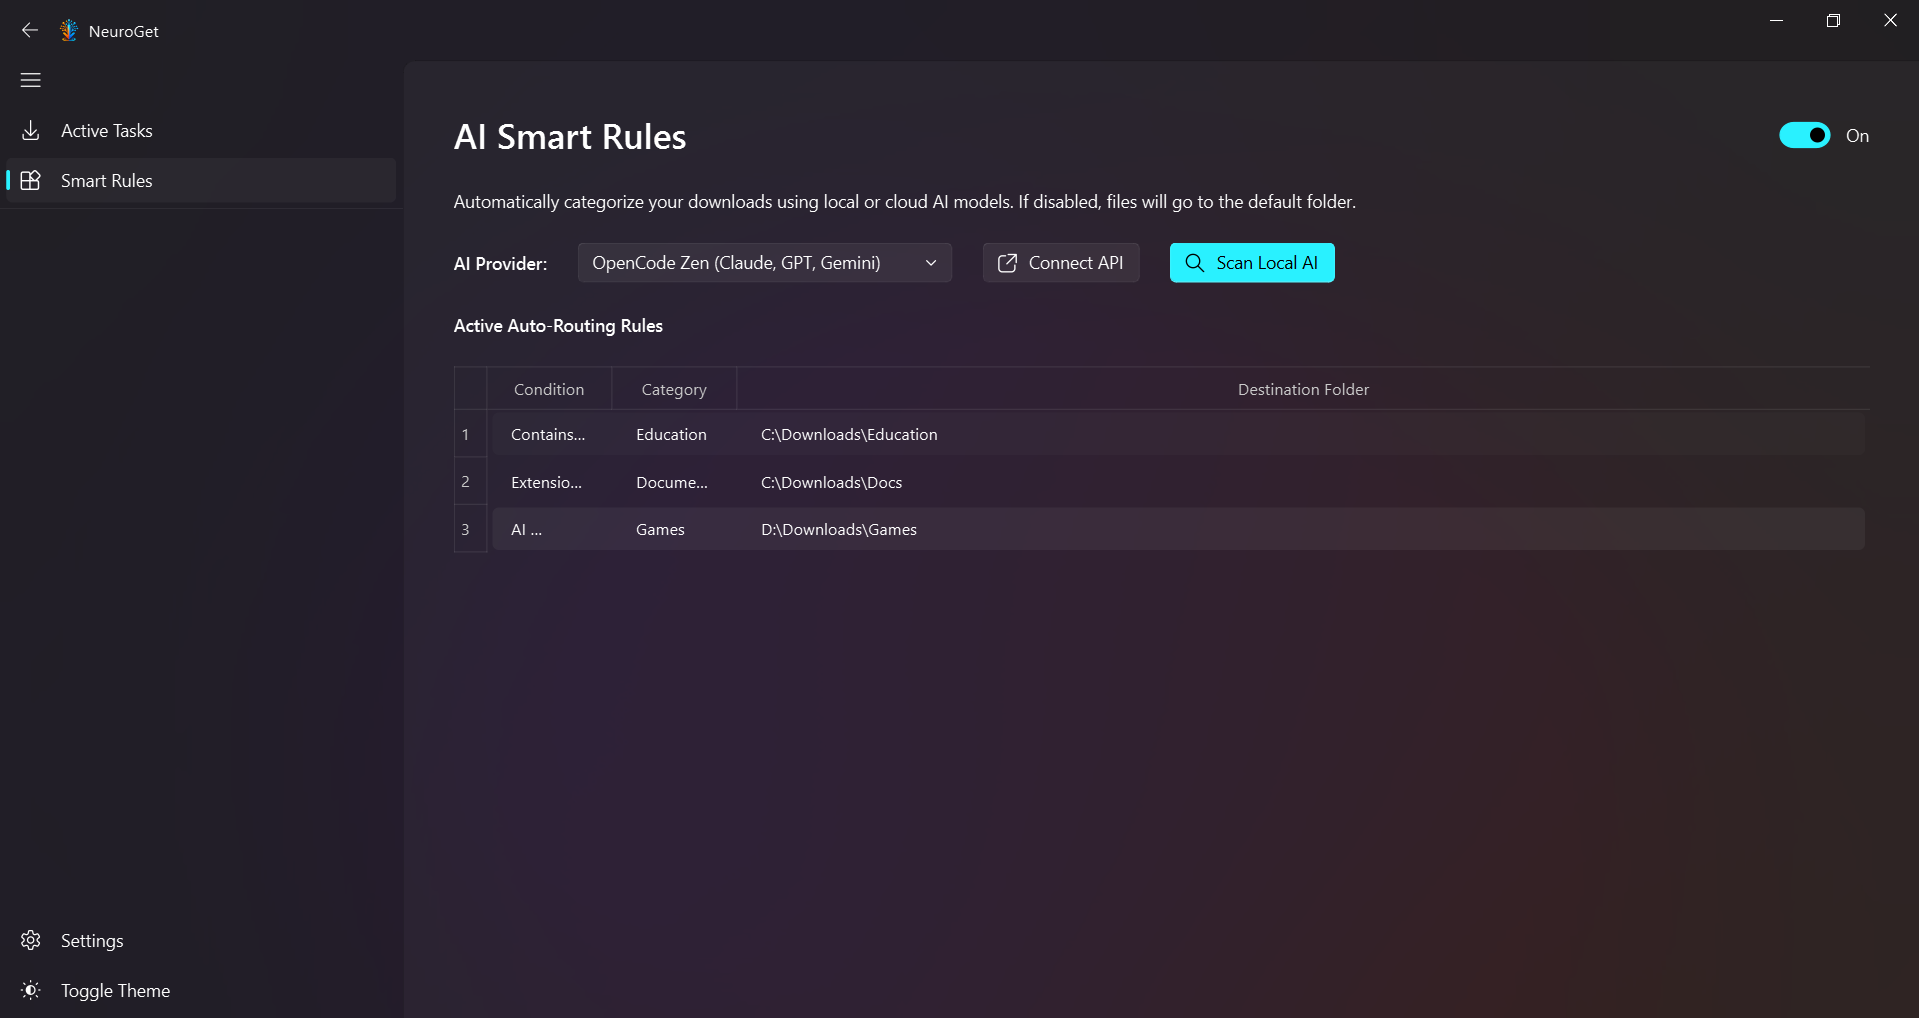
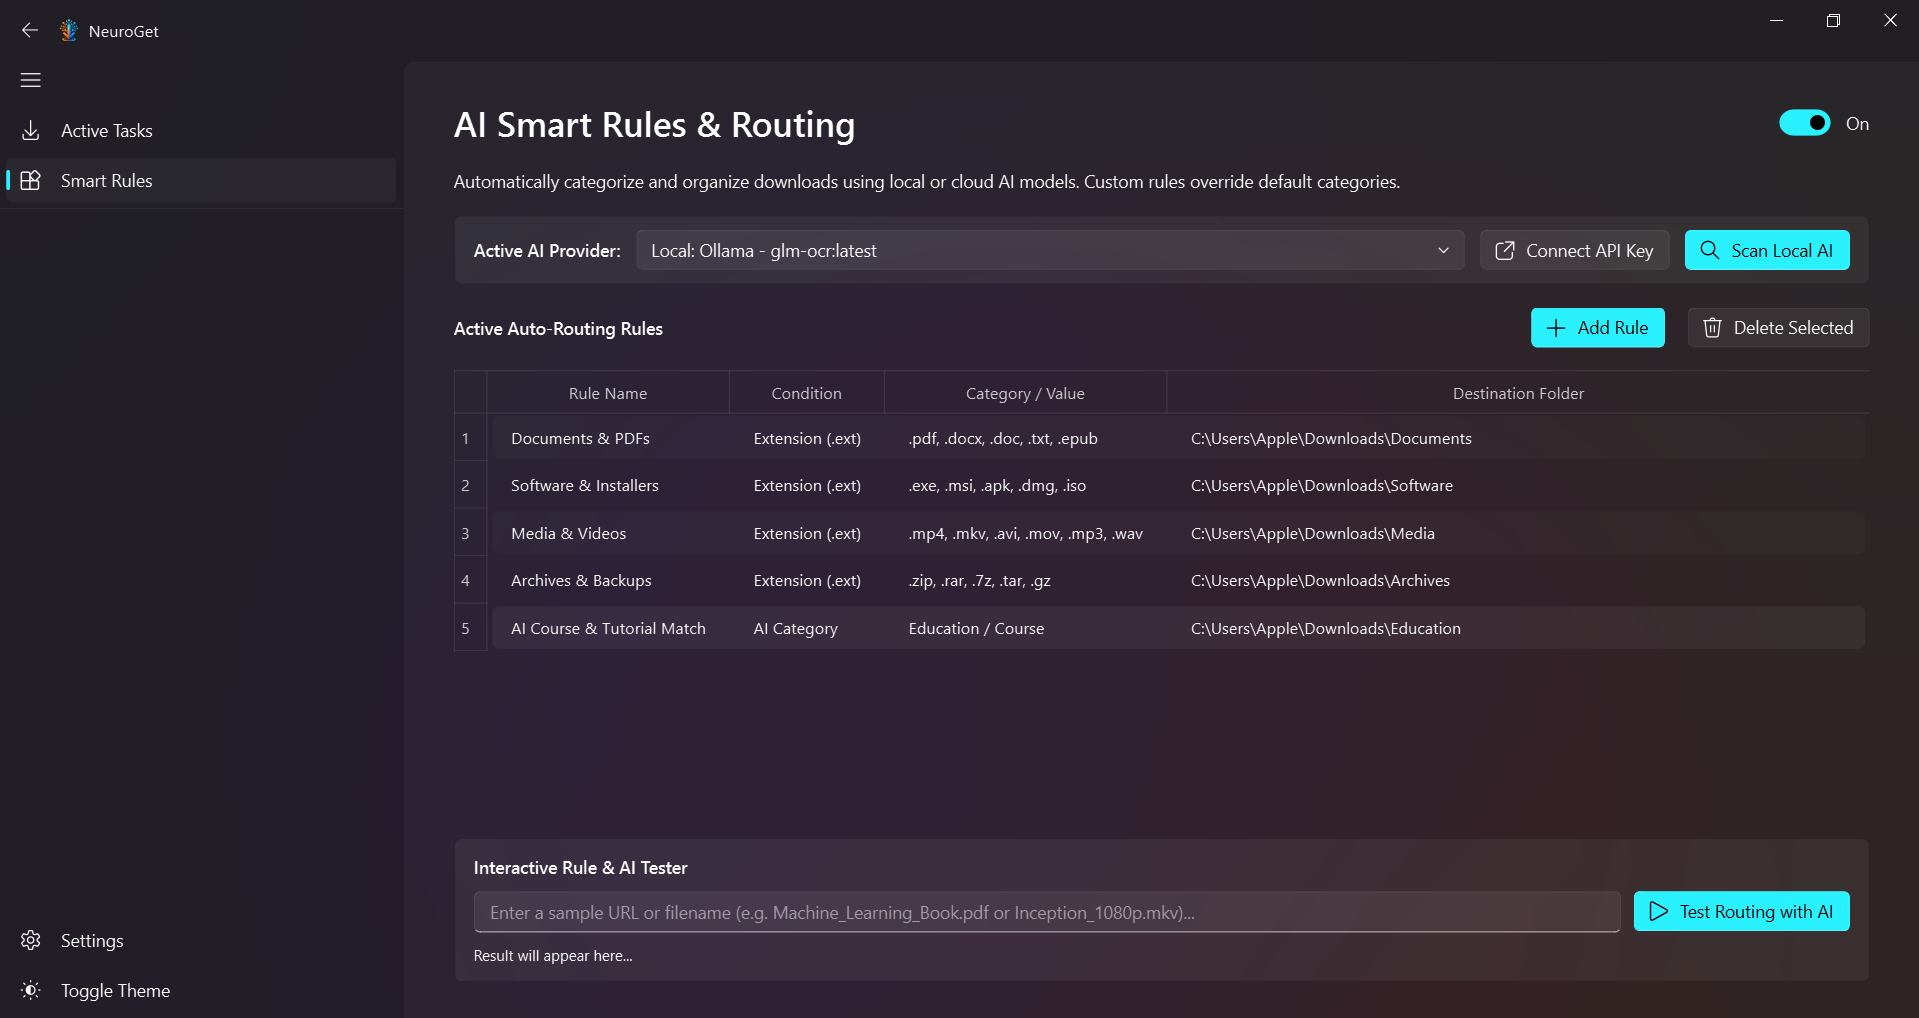
docs: revamp README with 2x2 screenshot grid, Mermaid architecture flowchart, and comprehensive feature guide

diff --git a/README.md b/README.md
@@ -1,133 +1,233 @@
 <p align="center">
-  <img src="assets/logo.jpg" width="180" style="border-radius: 30px; box-shadow: 0 10px 30px rgba(0,0,0,0.5);">
-  <h1 align="center">NeuroGet 🚀</h1>
+  <img src="assets/logo_transparent.png" width="140" alt="NeuroGet Logo">
+  <h1 align="center">NeuroGet</h1>
   <p align="center">
-    <strong>The Next-Generation AI-Powered Download Manager</strong>
+    <strong>The State-of-the-Art AI-Powered Download Manager for Windows 11</strong>
     <br>
-    <em>Intelligent Routing. Fluent Design. Uncompromised Speed.</em>
+    <em>Intelligent Multi-Threaded Fetching • Semantic AI Routing • Document Mini-RAG • Threat Detection</em>
   </p>
   <p align="center">
-    <img src="https://img.shields.io/badge/Python-3.12-blue?style=for-the-badge&logo=python&logoColor=white" alt="Python">
-    <img src="https://img.shields.io/badge/PyQt5-Fluent-orange?style=for-the-badge&logo=qt&logoColor=white" alt="PyQt5">
-    <img src="https://img.shields.io/badge/AI-Ollama%20%7C%20OpenAI-000000?style=for-the-badge&logo=openai&logoColor=white" alt="AI">
-    <img src="https://img.shields.io/badge/Windows-11_Ready-0078D6?style=for-the-badge&logo=windows&logoColor=white" alt="Windows 11">
+    <a href="https://github.com/mohammadrezamirtaleb/NeuroGet/releases/latest"><img src="https://img.shields.io/github/v/release/mohammadrezamirtaleb/NeuroGet?style=for-the-badge&color=0078D6&logo=github" alt="Latest Release"></a>
+    <img src="https://img.shields.io/badge/Python-3.12-3776AB?style=for-the-badge&logo=python&logoColor=white" alt="Python 3.12">
+    <img src="https://img.shields.io/badge/PyQt5-Fluent_Design-FF6F00?style=for-the-badge&logo=qt&logoColor=white" alt="PyQt5 Fluent">
+    <img src="https://img.shields.io/badge/AI_Engines-Ollama%20%7C%20OpenAI%20%7C%20Gemini-10A37F?style=for-the-badge&logo=openai&logoColor=white" alt="AI Engines">
+    <img src="https://img.shields.io/badge/Platform-Windows_11%20%7C%2010-0078D4?style=for-the-badge&logo=windows&logoColor=white" alt="Windows 11">
+    <img src="https://img.shields.io/badge/License-MIT-green?style=for-the-badge" alt="License">
   </p>
 </p>
+
+---
+
+## 📸 Interface Preview (2x2 Matrix)
+
+<table align="center" width="100%">
+  <tr>
+    <td width="50%" align="center">
+      <strong>Dark Mode — Active Downloads & Concurrency</strong><br><br>
+      <img src="assets/banner.png" width="100%" alt="Dark Mode Active Downloads" style="border-radius: 12px; box-shadow: 0 8px 24px rgba(0,0,0,0.35);">
+    </td>
+    <td width="50%" align="center">
+      <strong>Dark Mode — Fluent Navigation & Controls</strong><br><br>
+      <img src="assets/banner__menu.png" width="100%" alt="Dark Mode Menu" style="border-radius: 12px; box-shadow: 0 8px 24px rgba(0,0,0,0.35);">
+    </td>
+  </tr>
+  <tr>
+    <td width="50%" align="center">
+      <strong>Light Mode — Active Downloads & Real-Time Stats</strong><br><br>
+      <img src="assets/banner_light.png" width="100%" alt="Light Mode Active Downloads" style="border-radius: 12px; box-shadow: 0 8px 24px rgba(0,0,0,0.15);">
+    </td>
+    <td width="50%" align="center">
+      <strong>Light Mode — Fluent Navigation & Settings</strong><br><br>
+      <img src="assets/banner_light_menu.png" width="100%" alt="Light Mode Menu" style="border-radius: 12px; box-shadow: 0 8px 24px rgba(0,0,0,0.15);">
+    </td>
+  </tr>
+</table>
 
 ---
 
 ## 🌌 Overview
 
-**NeuroGet** is not just another download manager. It is a state-of-the-art, AI-driven fetching engine wrapped in a breathtaking **Windows 11 Fluent Design** interface. 
-
-By bridging the gap between traditional multi-threaded downloading and modern Artificial Intelligence, NeuroGet takes the manual work out of organizing your files, guessing extraction passwords, and managing tasks.
-
-<p align="center">
-  <img src="assets/banner.png" width="100%" style="border-radius: 20px; box-shadow: 0 10px 30px rgba(0,0,0,0.5);">
-  <br><br>
-  <img src="assets/banner_light.png" width="100%" style="border-radius: 20px; box-shadow: 0 10px 30px rgba(0,0,0,0.5);">
-</p>
+**NeuroGet** bridges the gap between raw multi-threaded networking and modern Artificial Intelligence. Engineered natively with **PyQt5** and styled according to the **Windows 11 Fluent Design System**, NeuroGet automates file organization, sanitizes file names, inspects threat payloads, extracts archive passwords, and allows you to interactively chat with downloaded documents via a local **Mini-RAG** engine.
 
 ---
 
-## ✨ Killer Features
+## 🏗 Software Architecture & Flowchart
 
-### 🧠 AI Smart Routing
-Stop organizing files manually. NeuroGet scans your downloads and uses **Artificial Intelligence** to automatically categorize and route files to specific destination folders based on contextual rules.
-* **Local AI Support:** Auto-detects and connects to *Ollama, LM Studio*, and *GPT4All* entirely offline.
-* **Cloud API Support:** Instantly connect to *OpenCode Zen, Anthropic, OpenAI, Google Gemini, OpenRouter*, and more.
-* **Fallback System:** If AI is disabled or unavailable, it seamlessly falls back to your default folder without ever interrupting the download.
+NeuroGet is built upon an enterprise **Layered Model-View-Controller (MVC)** pattern with dedicated asynchronous `QThread` workers to guarantee a responsive, zero-freeze 60fps user experience.
 
-### 🔑 Smart Password Extractor
-Downloading compressed archives (`.zip`, `.rar`) from the web? NeuroGet automatically analyzes the source domain and intelligently predicts the extraction password. 
-* A dedicated **🔑 Password** button appears exclusively for archives.
-* Instantly copy the most probable password to your clipboard with one click.
+```mermaid
+graph TD
+    subgraph UI_Layer ["🎨 Presentation & UI Layer (PyQt5 + QFluentWidgets)"]
+        MW["MainWindow (FluentWindow)"]
+        DP["DownloadsPage (Task Cards, Real-time Speed, Concurrency)"]
+        SRP["SmartRulesPage (Rule Management & AI Provider Selector)"]
+        SP["SettingsPage (Engine Config, AI Toggles, Auto-Updater)"]
+        AID["AISummaryDialog (Document Mini-RAG & Interactive Chat)"]
+        UPD["UpdateDialog (GitHub Releases Changelog & Direct Installer)"]
+    end
 
-### 📋 Intelligent Clipboard Detection
-NeuroGet actively monitors your clipboard. Copy a direct download link, and a sleek Fluent popup will elegantly ask for your confirmation before initiating the download. No annoying spam, just smart detection.
+    subgraph Service_Layer ["🧠 AI & Core Service Layer"]
+        AIC["Universal AI Client (Ollama, LM Studio, GPT4All, OpenAI, Gemini, Claude)"]
+        SMR["SmartRouter (Contextual Semantic Routing & Category Matching)"]
+        THD["ThreatDetector (Double Extensions, Disguised Executables, Anomaly Scan)"]
+        PWF["PasswordFinder & AutoExtractor (Domain Scraping, CDN Maps, Unpacking)"]
+        UPS["UpdateService & Worker (SemVer Comparison & GitHub Releases API)"]
+        LSC["LocalAIDetector (Local Manifest Scanning & Port Discovery)"]
+    end
 
-### 🎨 Breathtaking Fluent UI & UX
-Built using `qfluentwidgets`, the UI is a visual masterpiece:
-* **Custom Animated Splash Screen:** A frameless, shadow-casted loading screen with dynamic gradient progress bars and perfect typography.
-* **Dark / Light Mode:** Fully native theme switching.
-* **Dynamic Iconography:** Download cards automatically render matching UI icons (Music, Video, App, Archive) based on file extensions.
+    subgraph Engine_Layer ["⚡ Multi-Threaded Engine & Persistence"]
+        DMC["Download Engine (Segmented Dynamic Chunking, HTTP Range Headers)"]
+        DB[("SQLite Database & SQLAlchemy ORM (%LOCALAPPDATA%)")]
+    end
 
-### 🗄 Stateful Architecture (SQLite)
-Your download history, smart rules, and preferences are safely stored in a local SQLite database using **SQLAlchemy (ORM)**. 
-* Persistent state allows for flawless Pause/Resume capabilities.
-* Dedicated **Data Management** settings to clear history or factory reset the application.
-
-### ⚡ Zero UI Blocking (Threaded Core)
-Engineered with a robust **Layered MVC Architecture**. All heavy lifting—from AI port scanning to network fetching—happens on isolated `QThread` background workers, guaranteeing a buttery-smooth 60fps UI experience.
-
----
-
-## 📐 Architecture & Standards
-
-NeuroGet strictly adheres to **Enterprise Software Standards**:
-
-```text
-📂 NeuroGet/
-├── 📄 main.py                 # Application Entry Point & Splash Screen
-├── 📄 setup_wizard.py         # Standalone GUI Installer Builder
-├── 📁 assets/                 # Brand Assets, Logos, and Icons
-└── 📂 app/
-    ├── 📁 models/             # SQLAlchemy ORM, Schemas & SQLite DB
-    ├── 📁 services/           # Business logic (AI Scanner, Password Finder)
-    ├── 📁 controllers/        # Core Download Engine & Async HTTP Managers
-    └── 📁 views/              # PyQt5 Fluent GUI (Pages, Components)
+    MW --> DP & SRP & SP
+    DP --> AID
+    SP --> UPD
+    DP --> DMC
+    DMC --> DB
+    DMC --> THD
+    DMC --> PWF
+    DMC --> SMR
+    SMR --> AIC
+    SRP --> LSC
+    SP --> UPS
+    AID --> AIC
 ```
 
 ---
 
-## 🚀 Getting Started
+## ⚡ Key Capabilities & Features
+
+### 🚀 High-Speed Multi-Threaded Engine
+* **Segmented Fetching:** Splits incoming files into dynamic byte-range chunks fetched simultaneously over concurrent HTTP connections (up to 32 threads).
+* **Safe Resumption:** Incomplete files are safely written as `.part` files with verified byte offsets to prevent corruption upon network drops.
+* **Smart Clipboard Sniffer:** Automatically identifies download links copied to the clipboard and presents an unobtrusive prompt to start downloading.
+
+### 🧠 Universal AI Client (Local & Cloud LLMs)
+* **Offline-First Local Discovery:** Automatically detects local models installed on disk (`~/.ollama/models/manifests`), supports LM Studio (`localhost:1234`), and GPT4All.
+* **Cloud LLM Support:** Connects directly to OpenAI (GPT-4o), Google Gemini 1.5 Flash, Anthropic Claude 3.5 Sonnet, and OpenRouter.
+* **100% Heuristic Fallbacks:** Zero dependency on internet connectivity or external APIs; all categorization and renaming tasks fall back smoothly to rule-based heuristics if no LLM is present.
+
+### 📄 Content Analyzer & Document Mini-RAG
+* **Instant Summaries:** Extracts key insights, reading times, and structured takeaways from PDFs, code files, text documents, subtitles, and archives.
+* **Interactive Document Q&A:** Ask questions directly to your downloaded document inside a 3-tab Fluent dialog grounded in the file's content.
+
+### 🧹 AI Clean Renaming
+* **Tag & Prefix Stripper:** Automatically strips intrusive website tags, download tracker prefixes (e.g. `[Soft98.ir]`, `(Site.com)`), and messy query strings before saving to disk.
+
+### 🛡 Threat & Clickbait Detector
+* **Disguised Executable Defense:** Analyzes incoming files for double extensions (e.g. `movie.mp4.exe`), misleading MIME types, and suspiciously small binary files disguised as media.
+
+### 🔑 Smart Password Scraping & Auto-Extractor
+* **Referrer & CDN Discovery:** Extracts extraction passwords by analyzing referrer headers, download hosts, and built-in Iranian & international software portal maps.
+* **Background Unpacker:** Unpacks `.zip`, `.rar`, `.7z`, and `.tar` archives in the background upon download completion.
+
+### 🔄 GitHub Releases Auto-Updater
+* **SemVer Comparison:** Non-blocking background worker queries the [NeuroGet GitHub Releases API](https://github.com/mohammadrezamirtaleb/NeuroGet/releases) to compare semantic versions.
+* **Fluent Update Dialog:** Displays formatted release notes, binary asset sizes, and one-click download buttons for `NeuroGet_Setup.exe`.
+
+---
+
+## 📂 Project Structure
+
+```text
+📁 NeuroGet/
+├── 📄 main.py                      # Main entry point, Splash screen & MainWindow
+├── 📄 requirements.txt              # Core Python dependencies
+├── 📁 assets/                       # High-res logos, icons, and 2x2 screenshots
+│   ├── 🖼 logo_transparent.png     # Official transparent branding
+│   ├── 🖼 banner.png               # Dark Mode UI (Downloads)
+│   ├── 🖼 banner__menu.png         # Dark Mode UI (Navigation)
+│   ├── 🖼 banner_light.png         # Light Mode UI (Downloads)
+│   └── 🖼 banner_light_menu.png    # Light Mode UI (Navigation)
+├── 📂 app/
+│   ├── 📂 common/                  # Version definitions and global constants
+│   │   ├── 📄 __init__.py
+│   │   └── 📄 version.py           # v1.0.1 metadata & GitHub endpoints
+│   ├── 📂 models/                  # Database models & SQLite storage
+│   │   ├── 📄 database.py          # SQLAlchemy ORM session & queries
+│   │   └── 📄 schemas.py           # DownloadTask, SmartRule, AppSetting
+│   ├── 📂 controllers/             # Download management & multi-threading
+│   │   ├── 📄 download_manager.py  # Thread scheduler & download queue
+│   │   └── 📄 worker.py            # Segmented chunk downloader worker
+│   ├── 📂 services/                # Business logic & AI sub-systems
+│   │   ├── 📄 ai_client.py         # Multi-provider LLM & heuristic engine
+│   │   ├── 📄 ai_scanner.py        # Local Ollama / LM Studio port & manifest scanner
+│   │   ├── 📄 content_analyzer.py  # PDF/Text parser & Mini-RAG engine
+│   │   ├── 📄 password_finder.py   # Domain scraper & archive auto-extractor
+│   │   ├── 📄 router.py            # Semantic router & rule evaluator
+│   │   ├── 📄 threat_detector.py   # Malware & clickbait anomaly detector
+│   │   └── 📄 updater.py           # GitHub Releases updater & worker
+│   └── 📂 views/                   # PyQt5 Fluent Design presentation layer
+│       ├── 📄 splash_screen.py     # Custom animated startup splash
+│       ├── 📂 pages/               # Main application pages
+│       │   ├── 📄 downloads_page.py
+│       │   ├── 📄 smart_rules_page.py
+│       │   └── 📄 settings_page.py
+│       └── 📂 components/          # Reusable UI widgets
+│           ├── 📄 download_card.py # Dynamic download card
+│           ├── 📄 ai_summary_dialog.py # Document Q&A and summary dialog
+│           └── 📄 update_dialog.py # Windows 11 software update dialog
+└── 📂 tests/                       # Complete automated test suite
+    ├── 📄 test_ai_features.py      # AI, NLP, Threat & Extraction tests
+    ├── 📄 test_ui_comprehensive.py # UI lifecycle, Workers, and Pages test
+    └── 📄 test_updater.py          # SemVer, GitHub API, and Dialog tests
+```
+
+---
+
+## 🛠 Installation & Setup
 
 ### Prerequisites
-* Python 3.12+
-* Windows 10 / 11 (Recommended for Fluent Design)
+- **Python 3.12+**
+- **Windows 10 / Windows 11** (Optimized for Windows 11 Fluent Design)
 
-### Installation
+### 1. Clone the Repository
+```bash
+git clone https://github.com/mohammadrezamirtaleb/NeuroGet.git
+cd NeuroGet
+```
 
-1. **Clone the repository** (or extract the source):
-   ```bash
-   git clone https://github.com/yourusername/NeuroGet.git
-   cd NeuroGet
-   ```
+### 2. Create and Activate Virtual Environment
+```powershell
+python -m venv venv
+.\venv\Scripts\activate
+```
 
-2. **Create a virtual environment & install dependencies:**
-   ```bash
-   python -m venv venv
-   .\venv\Scripts\activate
-   pip install -r requirements.txt
-   ```
+### 3. Install Dependencies
+```bash
+pip install -r requirements.txt
+```
 
-3. **Launch NeuroGet:**
-   ```bash
-   python main.py
-   ```
+### 4. Run the Application
+```bash
+python main.py
+```
+
+---
+
+## 🧪 Running Automated Tests
+
+NeuroGet includes an end-to-end test suite covering all UI components, background workers, AI endpoints, and update mechanics:
+
+```powershell
+# Run AI & Smart Features Test Suite
+python tests/test_ai_features.py
+
+# Run Auto-Updater & GitHub API Test Suite
+python tests/test_updater.py
+
+# Run Comprehensive UI & Worker Suite
+python tests/test_ui_comprehensive.py
+```
 
 ---
 
-## 📸 Screenshots
+## 📄 License
 
-*(Add your beautiful screenshots here!)*
-
-<details>
-<summary><b>Click to expand screenshots</b></summary>
-
-| Dark Mode | Light Mode |
-|-----------|------------|
-| `[Screenshot 1]` | `[Screenshot 2]` |
-
-| AI Smart Rules | Smart Password Finder |
-|----------------|-----------------------|
-| `[Screenshot 3]` | `[Screenshot 4]` |
-
-</details>
-
----
+This project is licensed under the **MIT License** — see the [LICENSE](LICENSE) file for details.
 
 <p align="center">
-  Designed with passion. Ready for the future of downloading. <br>
-  <b>NeuroGet © 2026</b>
+  Crafted with precision for next-generation downloading. <br>
+  <strong>NeuroGet © 2026 • Mohammadreza Mirtaleb</strong>
 </p>
